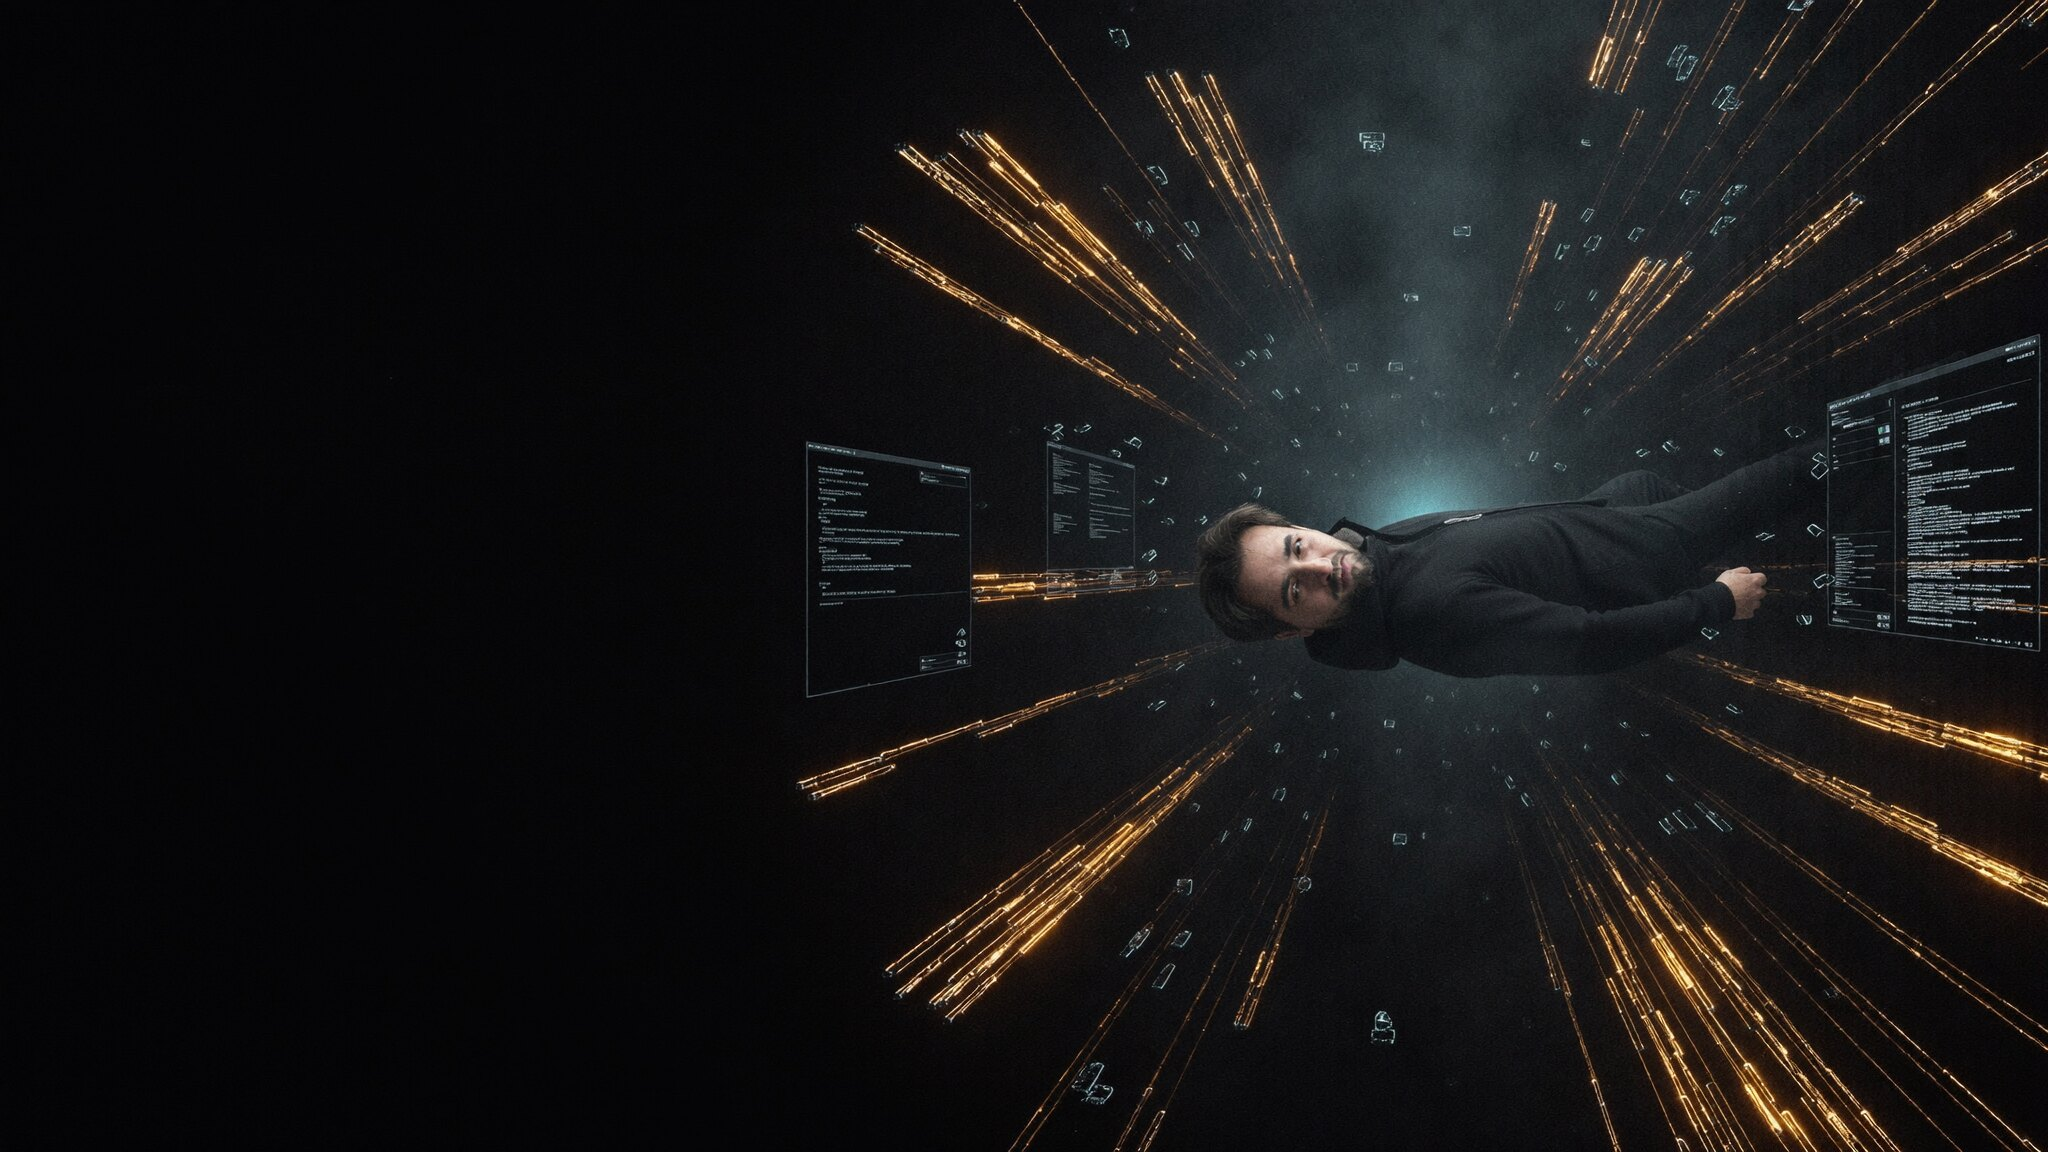
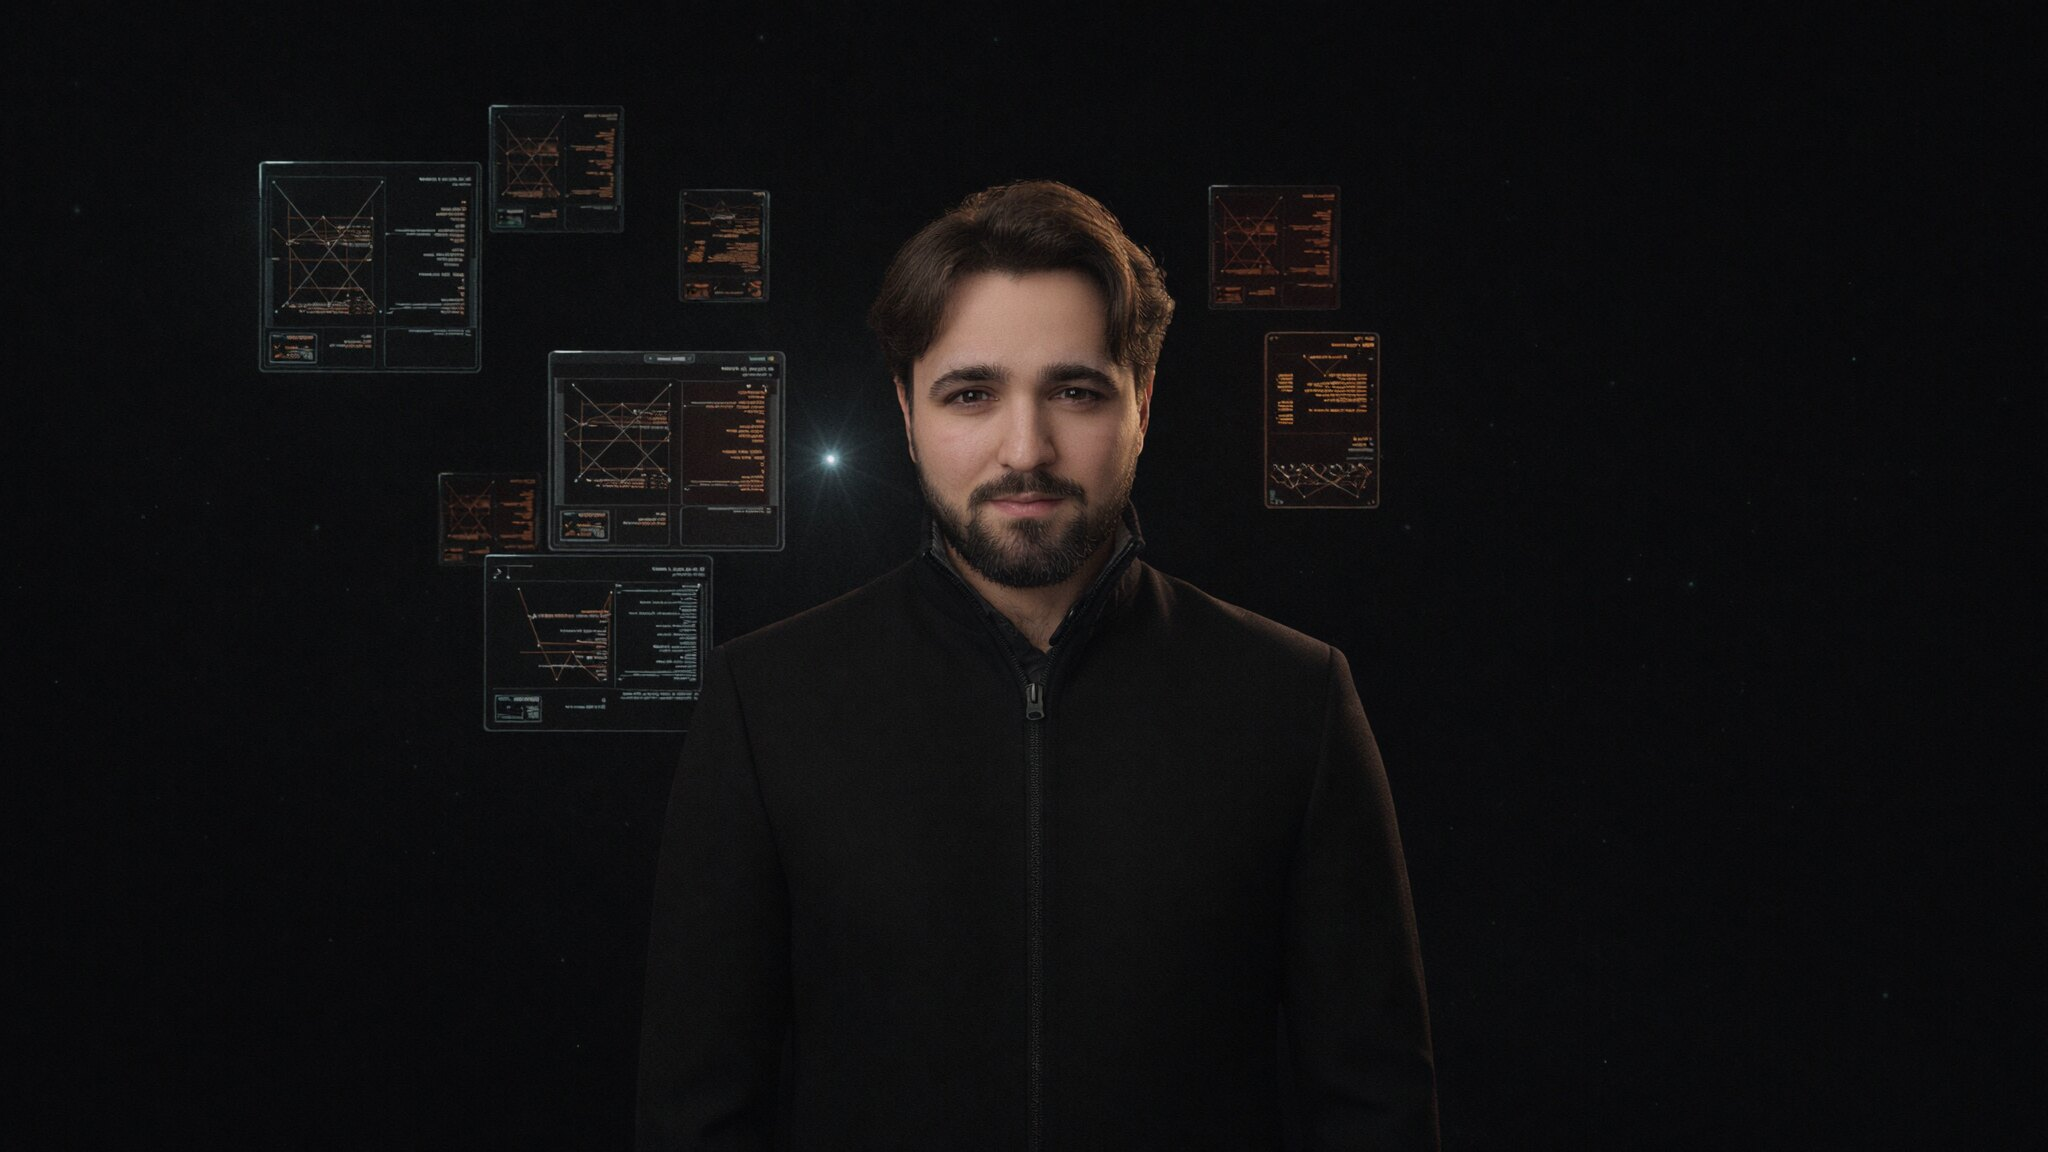
feat(home): art-directed hero pair, worked-with moved up, fresh case shots
Hero. The first plate had Noe flying with his face rotated side-on, which read
as odd rather than confident. Regenerated upright, square-shouldered, direct eye
contact, in a cyberspace of floating holographic panels.

The layout changed with it. A full-bleed plate cannot work behind this headline:
the type runs to roughly two thirds of the viewport at hero size, so his face
landed under the words and the scrim then had to erase him to keep them legible.
Moving him right did not help, because object-position can only slide within the
crop overflow, which is about 160px. So on desktop the plate now gets its own
column on the right, faded into the page at its inner edge. He is fully visible,
the type is fully readable, and neither is fighting the other. d-hero comes down
from 7.5rem to 5.75rem to share the row.

Two plates, not one resize: a 16:9 image cropped into a tall phone hero keeps the
empty sky and throws away the subject. The phone gets a 3:4 plate composed with
its subject in the lower two thirds and a near-black top where the headline sits,
scrimmed from the top instead of the left. lib/hero.ts resolves both, and either
can be missing without breaking the section.

Worked-with band moved directly under the header. Who he has worked with is
trust, and trust belongs before the pitch, not three sections down.

The band also never appeared to move. It was drifting the whole time: the wheel
listener paused it for 2.5s on any wheel event, and once the band ran edge to
[…]

diff --git a/components/views/HomeView.tsx b/components/views/HomeView.tsx
@@ -32,7 +32,7 @@ import SystemIndex from "@/components/SystemIndex";
 import { trustedBy } from "@/lib/creative";
 import { getAllWork, stack } from "@/lib/projects";
 import { getServices } from "@/lib/services";
-import { heroPlate } from "@/lib/hero";
+import { heroPlate, heroPlateMobile } from "@/lib/hero";
 import { getChapters, getPressGroups } from "@/lib/story";
 import {
   aboutPath,
@@ -95,23 +95,46 @@ export default function HomeView({ locale }: { locale: Locale }) {
               in public/hero the gradient alone carries the section. */}
           {heroPlate && (
             <div className="absolute inset-0 z-0" aria-hidden>
-              <Image
-                src={heroPlate}
-                alt=""
-                fill
-                priority
-                sizes="100vw"
-                className="object-cover object-[70%_center]"
-              />
-              {/* Two scrims: one across, one up, so the headline keeps its
-                  contrast whatever ends up in the picture. */}
-              <div className="absolute inset-0 bg-gradient-to-r from-void via-void/85 to-void/30" />
-              <div className="absolute inset-0 bg-gradient-to-t from-void via-transparent to-void/60" />
+              {/* Phone: the tall plate runs full bleed, scrimmed from the top
+                  because that is where the headline sits. */}
+              {heroPlateMobile && (
+                <div className="absolute inset-0 sm:hidden">
+                  <Image
+                    src={heroPlateMobile}
+                    alt=""
+                    fill
+                    priority
+                    sizes="100vw"
+                    className="object-cover object-center"
+                  />
+                  <div className="absolute inset-0 bg-gradient-to-b from-void via-void/70 to-void/85" />
+                </div>
+              )}
+
+              {/* Desktop: a panel on the right rather than a full bleed. The
+                  headline runs to about two thirds of the viewport at this
+                  size, so anything behind it loses: a full-bleed portrait put
+                  his face directly under the type and the scrim then had to
+                  erase him to keep the words legible. Given its own column he
+                  stays fully visible and the type stays fully readable. */}
+              <div className="absolute inset-y-0 right-0 hidden w-[54%] sm:block xl:w-[50%]">
+                <Image
+                  src={heroPlate}
+                  alt=""
+                  fill
+                  priority
+                  sizes="50vw"
+                  className="object-cover object-[58%_center]"
+                />
+                {/* Fade the inner edge into the page so there is no seam. */}
+                <div className="absolute inset-0 bg-gradient-to-r from-void from-15% via-void/45 to-transparent" />
+                <div className="absolute inset-0 bg-gradient-to-t from-void via-transparent to-void/70" />
+              </div>
             </div>
           )}
 
           <div className="relative z-10 mx-auto max-w-[90rem] px-4 sm:px-8">
-            <div className={`pb-12 ${heroPlate ? "pt-24 lg:pt-40 lg:pb-28" : "pt-12 lg:pt-16 lg:pb-16"}`}>
+            <div className={`pb-12 sm:max-w-[56%] ${heroPlate ? "pt-14 lg:pt-20 lg:pb-20" : "pt-12 lg:pt-16 lg:pb-16"}`}>
               <p className="mono text-dim">{t.op.heroEyebrow}</p>
 
               <h1 className="font-display d-hero mt-7 max-w-[18ch] text-balance">
@@ -176,6 +199,38 @@ export default function HomeView({ locale }: { locale: Locale }) {
             </div>
             <p className="sr-only">{t.op.ticker.join(", ")}</p>
           </div>
+        </section>
+
+        {/* ── WORKED WITH ──────────────────────────────────────────────── */}
+        <section className="rule-t overflow-hidden py-14">
+          <Reveal>
+            <p className="mono px-4 text-center text-faint sm:px-8">{t.home.trusted}</p>
+            <AutoScrollRow className="mt-9 items-stretch">
+              {[0, 1].map((n) => (
+                <div key={n} className="flex shrink-0 items-stretch" aria-hidden={n === 1}>
+                  {trustedBy.map((tb) => (
+                    <span
+                      key={`${n}-${tb.name}`}
+                      title={tb.name}
+                      className="flex h-16 w-44 shrink-0 items-center justify-center border-r border-line px-7 sm:w-52"
+                    >
+                      {/* eslint-disable-next-line @next/next/no-img-element */}
+                      <img
+                        src={tb.src}
+                        alt={`${tb.name} logo`}
+                        loading="lazy"
+                        style={{ maxHeight: tb.h }}
+                        className={`client-logo w-auto max-w-full ${
+                          tb.src.endsWith(".svg") ? "client-logo-svg" : ""
+                        }`}
+                      />
+                    </span>
+                  ))}
+                </div>
+              ))}
+            </AutoScrollRow>
+            <p className="mono mt-9 px-4 text-center text-faint sm:px-8">{t.home.trustedMore}</p>
+          </Reveal>
         </section>
 
         {/* ── 01 SYSTEMS ───────────────────────────────────────────────── */}
@@ -255,38 +310,6 @@ export default function HomeView({ locale }: { locale: Locale }) {
               </Reveal>
             </div>
           </div>
-        </section>
-
-        {/* ── WORKED WITH ──────────────────────────────────────────────── */}
-        <section className="rule-t overflow-hidden py-14">
-          <Reveal>
-            <p className="mono px-4 text-center text-faint sm:px-8">{t.home.trusted}</p>
-            <AutoScrollRow className="mt-9 items-stretch">
-              {[0, 1].map((n) => (
-                <div key={n} className="flex shrink-0 items-stretch" aria-hidden={n === 1}>
-                  {trustedBy.map((tb) => (
-                    <span
-                      key={`${n}-${tb.name}`}
-                      title={tb.name}
-                      className="flex h-16 w-44 shrink-0 items-center justify-center border-r border-line px-7 sm:w-52"
-                    >
-                      {/* eslint-disable-next-line @next/next/no-img-element */}
-                      <img
-                        src={tb.src}
-                        alt={`${tb.name} logo`}
-                        loading="lazy"
-                        style={{ maxHeight: tb.h }}
-                        className={`client-logo w-auto max-w-full ${
-                          tb.src.endsWith(".svg") ? "client-logo-svg" : ""
-                        }`}
-                      />
-                    </span>
-                  ))}
-                </div>
-              ))}
-            </AutoScrollRow>
-            <p className="mono mt-9 px-4 text-center text-faint sm:px-8">{t.home.trustedMore}</p>
-          </Reveal>
         </section>
 
         {/* ── 04 CAPABILITIES ──────────────────────────────────────────── */}

diff --git a/lib/hero.ts b/lib/hero.ts
@@ -2,21 +2,19 @@ import fs from "node:fs";
 import path from "node:path";
 
 /**
- * The hero background plate.
+ * The hero background plates.
  *
- * Noe art-directs this image himself (cyberspace / cyberpunk, his persona in
- * it), so the site must not break while it does not exist yet. Drop a file at
- * one of the paths below, rebuild, and the hero picks it up. With nothing
- * there, the hero falls back to the lit-panel gradient and still reads as
- * finished rather than as a missing image.
+ * Two of them, because a 16:9 plate cropped into a tall phone hero throws away
+ * the subject and keeps the empty sky. Art direction, not just a resize: the
+ * wide plate keeps its left third near black for the headline, the tall plate
+ * keeps its top third near black for the same reason.
  *
- * Wants a wide plate, 2400x1350 or larger, dark, with the left third close to
- * black: the headline sits over that side.
+ * Either file can be absent. With nothing there the hero falls back to the
+ * lit-panel gradient and still reads as finished rather than as a broken image.
+ * See public/hero/README.md for what the layout needs from a replacement.
  */
-const CANDIDATES = ["header.jpg", "header.png", "header.webp"];
-
-function findPlate(): string | null {
-  for (const name of CANDIDATES) {
+function find(names: string[]): string | null {
+  for (const name of names) {
     try {
       if (fs.existsSync(path.join(process.cwd(), "public", "hero", name))) {
         return `/hero/${name}`;
@@ -28,4 +26,9 @@ function findPlate(): string | null {
   return null;
 }
 
-export const heroPlate = findPlate();
+/** Wide plate, used from the `sm` breakpoint up. */
+export const heroPlate = find(["header.jpg", "header.png", "header.webp"]);
+
+/** Tall plate for phones. Falls back to the wide one if it is not there. */
+export const heroPlateMobile =
+  find(["header-mobile.jpg", "header-mobile.png", "header-mobile.webp"]) ?? heroPlate;

diff --git a/components/AutoScrollRow.tsx b/components/AutoScrollRow.tsx
@@ -101,8 +101,17 @@ export default function AutoScrollRow({
     el.addEventListener("pointermove", onPointerMove);
     el.addEventListener("pointerup", onPointerEnd);
     el.addEventListener("pointercancel", onPointerEnd);
-    el.addEventListener("wheel", pause, { passive: true });
+    // Only a *horizontal* wheel gesture means "I am steering this strip".
+    // The band runs edge to edge, so an ordinary vertical page scroll puts the
+    // cursor over it and used to pause the drift for 2.5s every single time:
+    // the strip was reliably frozen at the exact moment anyone looked at it.
+    const onWheel = (e: WheelEvent) => {
+      if (Math.abs(e.deltaX) > Math.abs(e.deltaY)) pause();
+    };
+    el.addEventListener("wheel", onWheel, { passive: true });
     el.addEventListener("touchstart", pause, { passive: true });
+    // (touchstart stays unconditional: on a phone a finger on the strip really
+    //  is an intent to steer it, and the drift resumes 2.5s after lift.)
     el.addEventListener("scroll", wrap, { passive: true });
     el.addEventListener("dragstart", onDragStart);
 
@@ -115,7 +124,7 @@ export default function AutoScrollRow({
       el.removeEventListener("pointermove", onPointerMove);
       el.removeEventListener("pointerup", onPointerEnd);
       el.removeEventListener("pointercancel", onPointerEnd);
-      el.removeEventListener("wheel", pause);
+      el.removeEventListener("wheel", onWheel);
       el.removeEventListener("touchstart", pause);
       el.removeEventListener("scroll", wrap);
       el.removeEventListener("dragstart", onDragStart);

diff --git a/app/globals.css b/app/globals.css
@@ -85,7 +85,7 @@ body {
 }
 
 /* Display sizes. Each one clamps so nothing ever needs a breakpoint fix. */
-.d-hero   { font-size: clamp(2.65rem, 8.2vw, 7.5rem); }
+.d-hero   { font-size: clamp(2.5rem, 6.4vw, 5.75rem); }
 .d-xl     { font-size: clamp(2.1rem, 5.6vw, 4.25rem); }
 .d-lg     { font-size: clamp(1.75rem, 4vw, 2.9rem); }
 .d-md     { font-size: clamp(1.4rem, 2.6vw, 2rem); }

diff --git a/public/hero/README.md b/public/hero/README.md
@@ -1,15 +1,23 @@
-# Hero plate
+# Hero plates
 
-Drop the header image here as `header.jpg` (or `.png` / `.webp`), then rebuild.
-`lib/hero.ts` picks it up automatically; with no file present the hero falls
-back to the gradient and still looks finished.
+Two files, because one 16:9 image cropped into a tall phone hero keeps the empty
+sky and throws away the subject.
 
-What the layout wants:
+| File                | Ratio | Used        | Needs                                   |
+| ------------------- | ----- | ----------- | --------------------------------------- |
+| `header.jpg`        | 16:9  | `sm` and up | left third near black, subject centre-right |
+| `header-mobile.jpg` | 3:4   | phones      | top third near black, subject lower two thirds |
 
-- Wide, 2400x1350 or larger (16:9).
-- Dark overall. The page background is `#0a0b0c`, so the plate should sit in
-  that family rather than fight it.
-- The **left third close to black**: the headline and the buttons sit there and
-  a scrim alone will not rescue a busy left side.
-- Subject toward the centre-right.
-- No text or logos in the image. The page supplies all of those.
+`.png` and `.webp` work too. `lib/hero.ts` picks whichever exists at build time;
+with the mobile plate missing the wide one is used everywhere, and with both
+missing the hero falls back to the gradient and still looks finished.
+
+Both must be dark overall. The page background is `#0a0b0c`, so a plate that
+sits in that family reads as one surface rather than as a pasted-in picture. The
+near-black region is where the headline, the lead and the buttons sit, and a
+scrim alone will not rescue a busy one. No text or logos in the image: the page
+supplies all of those.
+
+Current pair: Higgsfield Soul 2.0 on Noe's trained character, generated
+2026-11-09. Export as JPEG around quality 86, not PNG: these ship in the hero of
+a page that sells fast sites.
